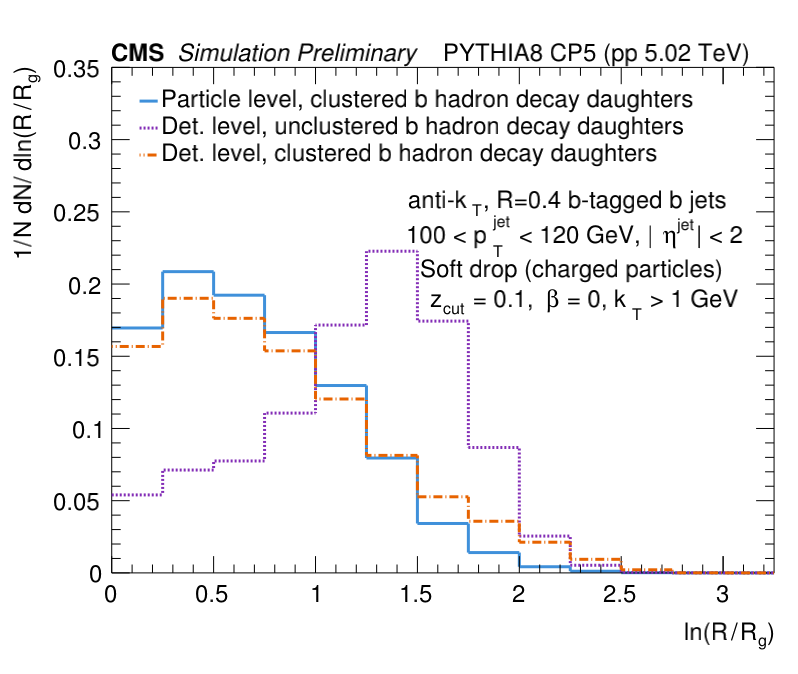
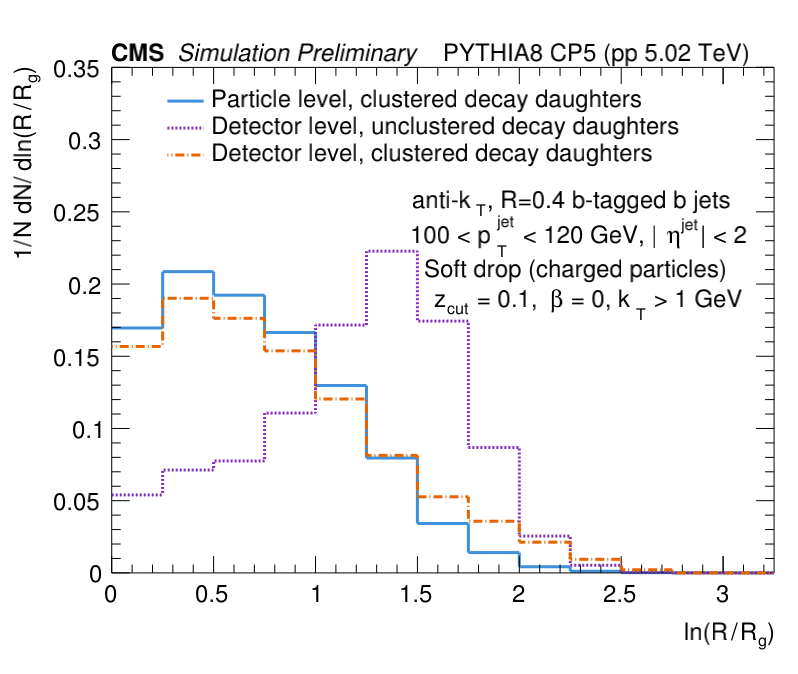
make legend easier to read

Changed region(s): [[0.1805, 0.1246, 0.8722, 0.2493], [0.5113, 0.2804, 0.9323, 0.4674]]

diff --git a/myMacros/C106X/draw_aggr_vs_not.C b/myMacros/C106X/draw_aggr_vs_not.C
@@ -88,17 +88,17 @@ void draw_aggr_vs_not(TString observable="rg")
     // jet_info->DrawLatex(0.64, 0.55, "Soft drop (charged particles)");
     // jet_info->DrawLatex(0.575, 0.5, "z_{cut} = 0.1, #beta = 0, k_{T} > 1 GeV");
     // for pdf
-    jet_info->DrawLatex(0.935, 0.7, "anti-k_{T}, R=0.4 b-tagged b jets");
-    jet_info->DrawLatex(0.935, 0.65, "100 < p_{T}^{jet} < 120 GeV, |#eta^{jet}| < 2");
-    jet_info->DrawLatex(0.935, 0.6, "Soft drop (charged particles)");
-    jet_info->DrawLatex(0.935, 0.55, "z_{cut} = 0.1, #beta = 0, k_{T} > 1 GeV");
+    jet_info->DrawLatex(0.94, 0.7, "anti-k_{T}, R=0.4 b-tagged b jets");
+    jet_info->DrawLatex(0.94, 0.65, "100 < p_{T}^{jet} < 120 GeV, |#eta^{jet}| < 2");
+    jet_info->DrawLatex(0.94, 0.6, "Soft drop (charged particles)");
+    jet_info->DrawLatex(0.94, 0.55, "z_{cut} = 0.1, #beta = 0, k_{T} > 1 GeV");
 
-    TLegend *leg = new TLegend(0.17, 0.75, 0.82, 0.87);
+    TLegend *leg = new TLegend(0.2, 0.75, 0.85, 0.87);
     leg->SetFillStyle(0);
-    leg->SetMargin(0.05);
-    leg->AddEntry(hSingleBtag_gen_aggr_1d, "Particle level, clustered b hadron decay daughters", "l");
-    leg->AddEntry(hSingleBtag_reco_noAggr_1d, "Det. level, unclustered b hadron decay daughters", "l");
-    leg->AddEntry(hSingleBtag_reco_aggr_1d, "Det. level, clustered b hadron decay daughters", "l");
+    leg->SetMargin(0.1);
+    leg->AddEntry(hSingleBtag_gen_aggr_1d, "Particle level, clustered decay daughters", "l");
+    leg->AddEntry(hSingleBtag_reco_noAggr_1d, "Detector level, unclustered decay daughters", "l");
+    leg->AddEntry(hSingleBtag_reco_aggr_1d, "Detector level, clustered decay daughters", "l");
     leg->Draw();
 
     c_aggr_vs_noAggr->Print("plots_an/"+observable+"_aggr_vs_not.png");
